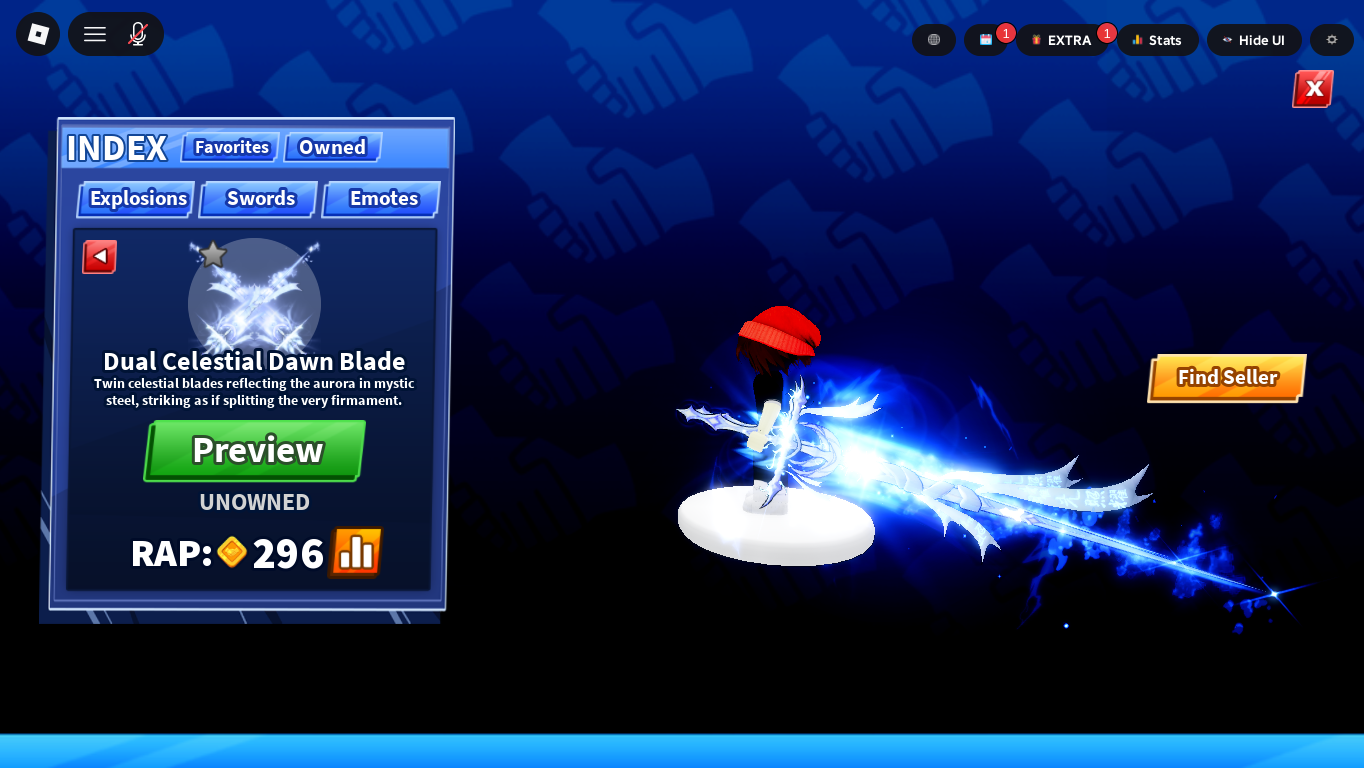
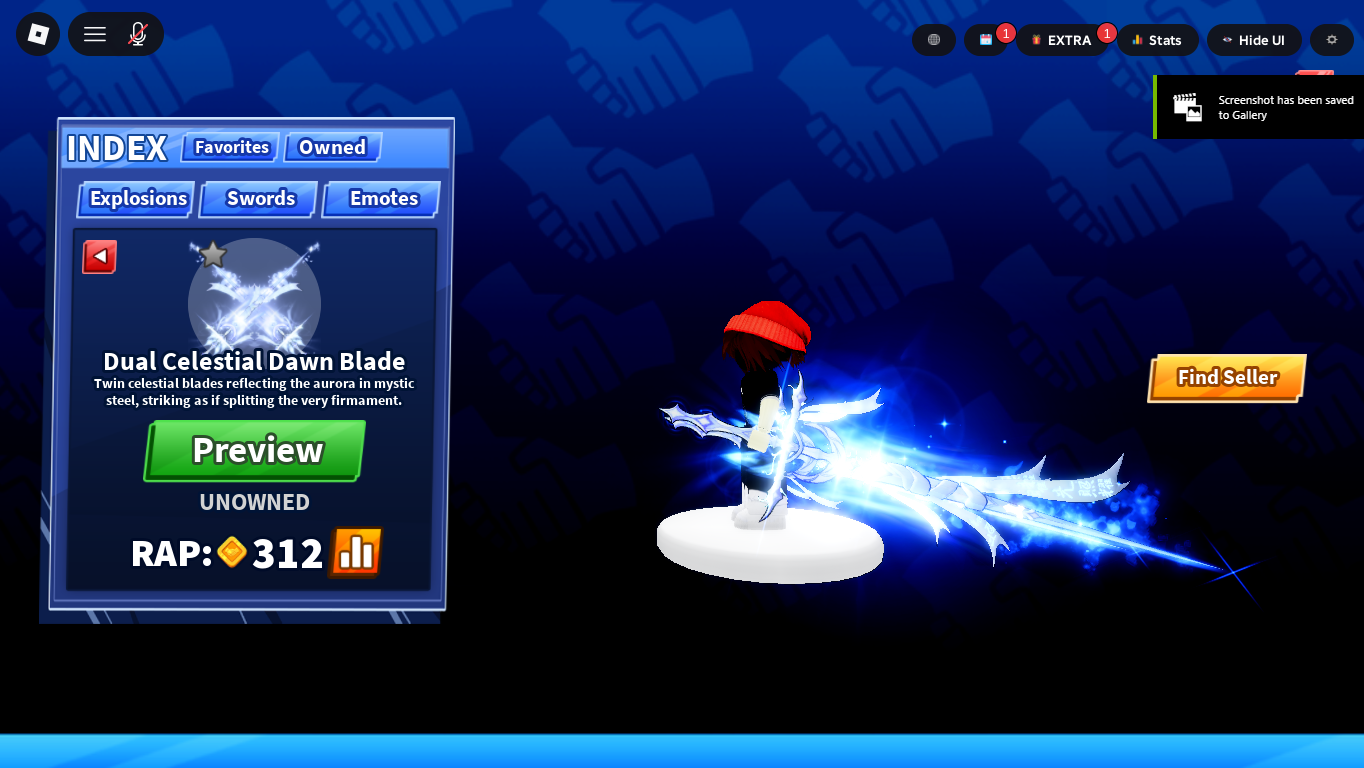
Update item dan harga

Changed region(s): [[0.4619, 0.375, 0.9545, 0.8125], [0.8314, 0.0938, 1.0, 0.1875], [0.1848, 0.6875, 0.2463, 0.75]]

diff --git a/index.html b/index.html
@@ -1211,11 +1211,11 @@ const data={
 "Sword Under 30k":[
 ["Sugarcoated Saber","30k"],["Dual Demonic Scythe","30k"],["Dual Shadow Monarch","30k"],["Oceans Lement","30k"],["Gravebone Scythe","30k"],["Loveclaw Blade","30k"],["Dual Nebula Scythe","28k"],["Dual Celestial Dawn Blade","28k"],["Samurai Bow","28k"],["Dual Nyxpetal Blade","28k"],["Dual Cursed Blade","28k"],["Aether Watch Blade","25k"],["Butterfly Blade","25k"],["Luv4pain Blade","25k"],["Bloom Katana","25k"],["Ribbon Blade","24k"],["Bloodpetal Blade","20k"],["Vampire Saw","20k"],["Flutter Blade","20k"],["Atherial Azure Katana","20k"]],
 "Backsword":[
-["Strawberry Cake Blade","35k"],["Final Phase","40k"],["Rose Blade","53k"],["Samurai Katana","47k"],["Blackcat Blade","46k"],["Sinister","40k"],["Corrupted Loveblade","40k"],["Hellchain","36k"],["Death Call","35k"],["Hazy Katana","38k"],["Arachne Blade","38k"],["Lumen Petal","40k"],["Y2K","40k"],["Gravebone Blade","35k"],["Runic Red Blade","40k"]],
+["Strawberry Cake Blade","35k"],["Final Phase","45k"],["Rose Blade","60k"],["Samurai Katana","47k"],["Blackcat Blade","46k"],["Sinister","40k"],["Corrupted Loveblade","40k"],["Hellchain","36k"],["Death Call","35k"],["Hazy Katana","38k"],["Arachne Blade","38k"],["Lumen Petal","40k"],["Y2K","50k"],["Gravebone Blade","35k"],["Runic Red Blade","40k"]],
 "Sword Cewe":[
-["Dual Flutter Blade","43k"],["Dual Heart Blade","45k"],["Dual Luv4pain Blade","45k"],["Dual Loveclaw Blade","45k"],["Dual Love Blade","45k"],["Dual Ribbon Blade","45k"],["Dual Rose Blade","40k"],["Dual Soulbloom Blade","35k"],["Dual Spring Saber Blade","35k"],["Dual Strawberry Cake Blade","40k"],["Dual Bubble Blade + Aksesoris","65k"],["Dual Gothic Bunny","60k"],["Dual Sugarcoated Saber","65k"],["Harmonic Fan","83k"],["Nyxpetal Fan","93k"],["Peachborne Fan","83k"],["Dual Bubble Blaster","117k"],["Sakura Parasol","101k"]],
+["Dual Flutter Blade","43k"],["Dual Heart Blade","50k"],["Dual Luv4pain Blade","45k"],["Dual Loveclaw Blade","48k"],["Dual Love Blade","45k"],["Dual Ribbon Blade","45k"],["Dual Rose Blade","40k"],["Dual Soulbloom Blade","35k"],["Dual Spring Saber Blade","35k"],["Dual Strawberry Cake Blade","40k"],["Dual Butterfly Blade","35k"],["Butterfly Bow","65k"],["Dual Bubble Blade + Aksesoris","65k"],["Dual Gothic Bunny","60k"],["Dual Sugarcoated Saber","70k"],["Harmonic Fan","83k"],["Nyxpetal Fan","93k"],["Peachborne Fan","83k"],["Dual Bubble Blaster","117k"],["Sakura Parasol","101k"]],
 "Sword Entry Level":[
-["Witch's Curse","180k"],["Poisoned Bunny","315k"],["Fox Katana","385k"],["New Year Set ( Finisher )","86k"],["Dual Love Sickle ( Finisher )","86k"],["Witch Set ( Finisher)","75k"],["Neo Katana","120k"],["Chained Scorpion (Finisher)","86k"],["Samurai Set","94k"],["Pillow","185k"],["Pink Oni Katana","205k"],["Red Oni Katana","210k"],["Purple Oni Katana","210k"],["Blue Oni Katana","215k"],["Redmoon Katana","215k"],["Riftlare Katana","215k"],["Black Oni Katana","222k"],["Hollow Oath Katana","225k"],["Floppy Chiken","225k"],["Star Wand","225k"],["Higanbana Katana","255k"],["Pulse Heart","285k"],["Lily Katana","300k"],["Gyaru Katana","325k"],["Dual Yin Yang","334k"],["Hitman","375k"],["Brutality Affection Bat","420k"],["Pink Ninja Katana","478k"],["Blosoom Katana","500k"],["Kitty Katana","800k"],["Pearl Angel Katana","240k"],["Astral Seraph","240k"],["North Blade","96k"],["Crystal Great Blade","115k"],["Cat Paw","750k"],["Kitty Launcher","1,205k"]],
+["Witch's Curse","215k"],["Poisoned Bunny","315k"],["Fox Katana","385k"],["New Year Set ( Finisher )","86k"],["Dual Love Sickle ( Finisher )","86k"],["Witch Set ( Finisher)","75k"],["Neo Katana","120k"],["Chained Scorpion (Finisher)","86k"],["Samurai Set","94k"],["Pillow","185k"],["Pink Oni Katana","205k"],["Red Oni Katana","210k"],["Purple Oni Katana","210k"],["Blue Oni Katana","215k"],["Redmoon Katana","215k"],["Riftlare Katana","215k"],["Black Oni Katana","222k"],["Hollow Oath Katana","225k"],["Floppy Chiken","225k"],["Star Wand","225k"],["Higanbana Katana","255k"],["Pulse Heart","285k"],["Lily Katana","300k"],["Gyaru Katana","325k"],["Dual Yin Yang","334k"],["Hitman","375k"],["Brutality Affection Bat","420k"],["Pink Ninja Katana","478k"],["Blosoom Katana","500k"],["Kitty Katana","800k"],["Pearl Angel Katana","240k"],["Astral Seraph","240k"],["North Blade","96k"],["Crystal Great Blade","115k"],["Cat Paw","750k"],["Kitty Launcher","1,205k"]],
 "Emote":[
 ["Lush","5k"],["Walk This Earth","5k"],["Love Struck Sway","8k"],["Heart Clap","8k"],["Jiggy","8k"],["Floating Seat","10k"],["Duo Dansen","10k"],["Shake","10k"],["Freestyle Dance","10k"],["Air Punch","10k"],["Pumpin","10k"],["Headless Dribble","10k"],["Pointing The Finger","10k"],["Haunted Bow","10k"],["I'm Sorry","10k"],["Bunny Conga","10k"],["Really Shy","10k"],["Tantrum","10k"],["Real Man","12k"],["Dansen","14k"],["Assumptions","16k"],["Scaredy Cat","16k"],["Office Spin","17k"],["Phantom Chase","18k"],["Floating Heart Aura","26k"],["Blushing Gesture","27k"],["Snowfall Dance","30k"],["I'm Tired","30k"],["Parrot Dance","34k"],["Wait","38k"],["Glitched Dance","46k"],["Look At Me","88k"],["Popular","92k"],["Bring it Around","125k"],["Dancinha","230k"],["Proposal","268k"],["Queen Throne","315k"],["Montagem Miaw","406k"],["Legs Kickin","525k"],["Rose Gift","630k"],["Hug","1,035k"]],
 "Explosions":[
@@ -1253,7 +1253,18 @@ const modalAmount=document.getElementById("modalAmount");
 const confirmOrder=document.getElementById("confirmOrder");
 const categories=Object.keys(data);
 data["Semua"]=categories.filter(c=>c!=="Raps / Token").flatMap(c=>data[c]);
-data["Semua"].push(["Dual Eternal Blaster ( Finisher )","50k"],["Dual Candy Cane Blasters ( Finisher )","50k"],["Dual Pixel Blasters ( Finisher )","45k"]);
+data["Semua"].push(
+  ["Butterfly Bow","65k"],
+  ["Dual Butterfly Blade","35k"],
+  ["Blue Bunny Katana","35k"],
+  ["Dual Blue Bunny Katana","50k"],
+  ["Dual Celestial Dawn Blade","35k"],
+  ["Dual Stardust Katana","40k"],
+  ["Nifty's Blade","40k"],
+  ["Dual Eternal Blaster ( Finisher )","50k"],
+  ["Dual Candy Cane Blasters ( Finisher )","50k"],
+  ["Dual Pixel Blasters ( Finisher )","45k"]
+);
 Object.keys(data).forEach(cat=>{
   if(Array.isArray(data[cat])) data[cat].sort((a,b)=>{
     const price=v=>parseFloat(String(v).replace(/k/gi,"").replace(/,/g,""))||0;
